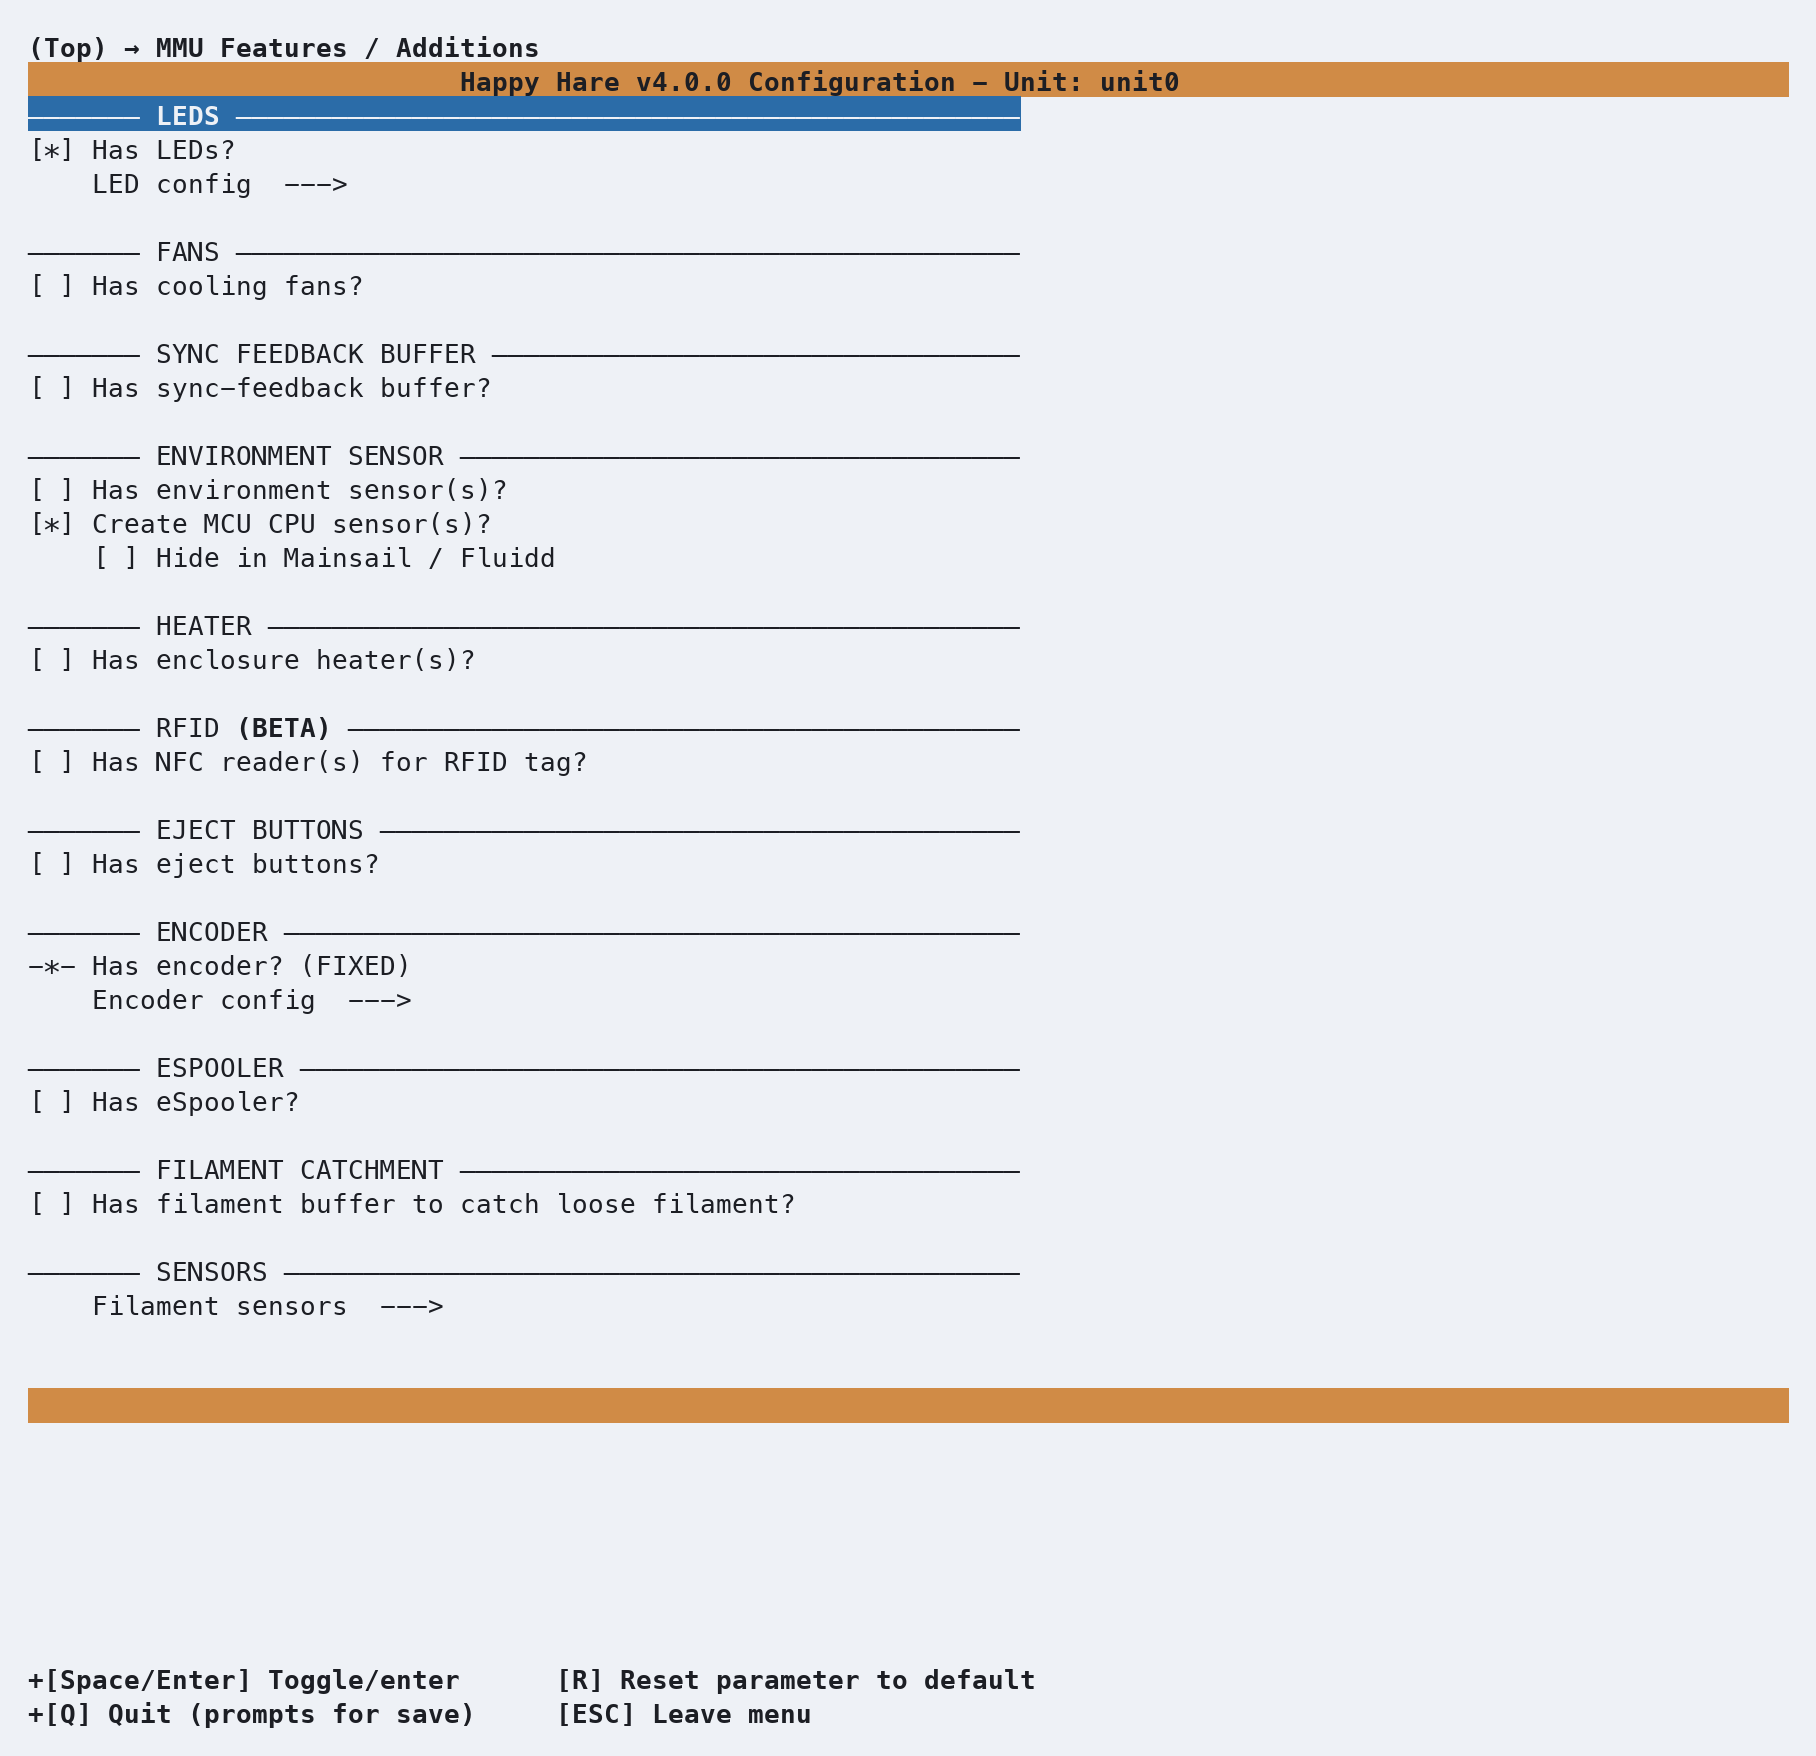
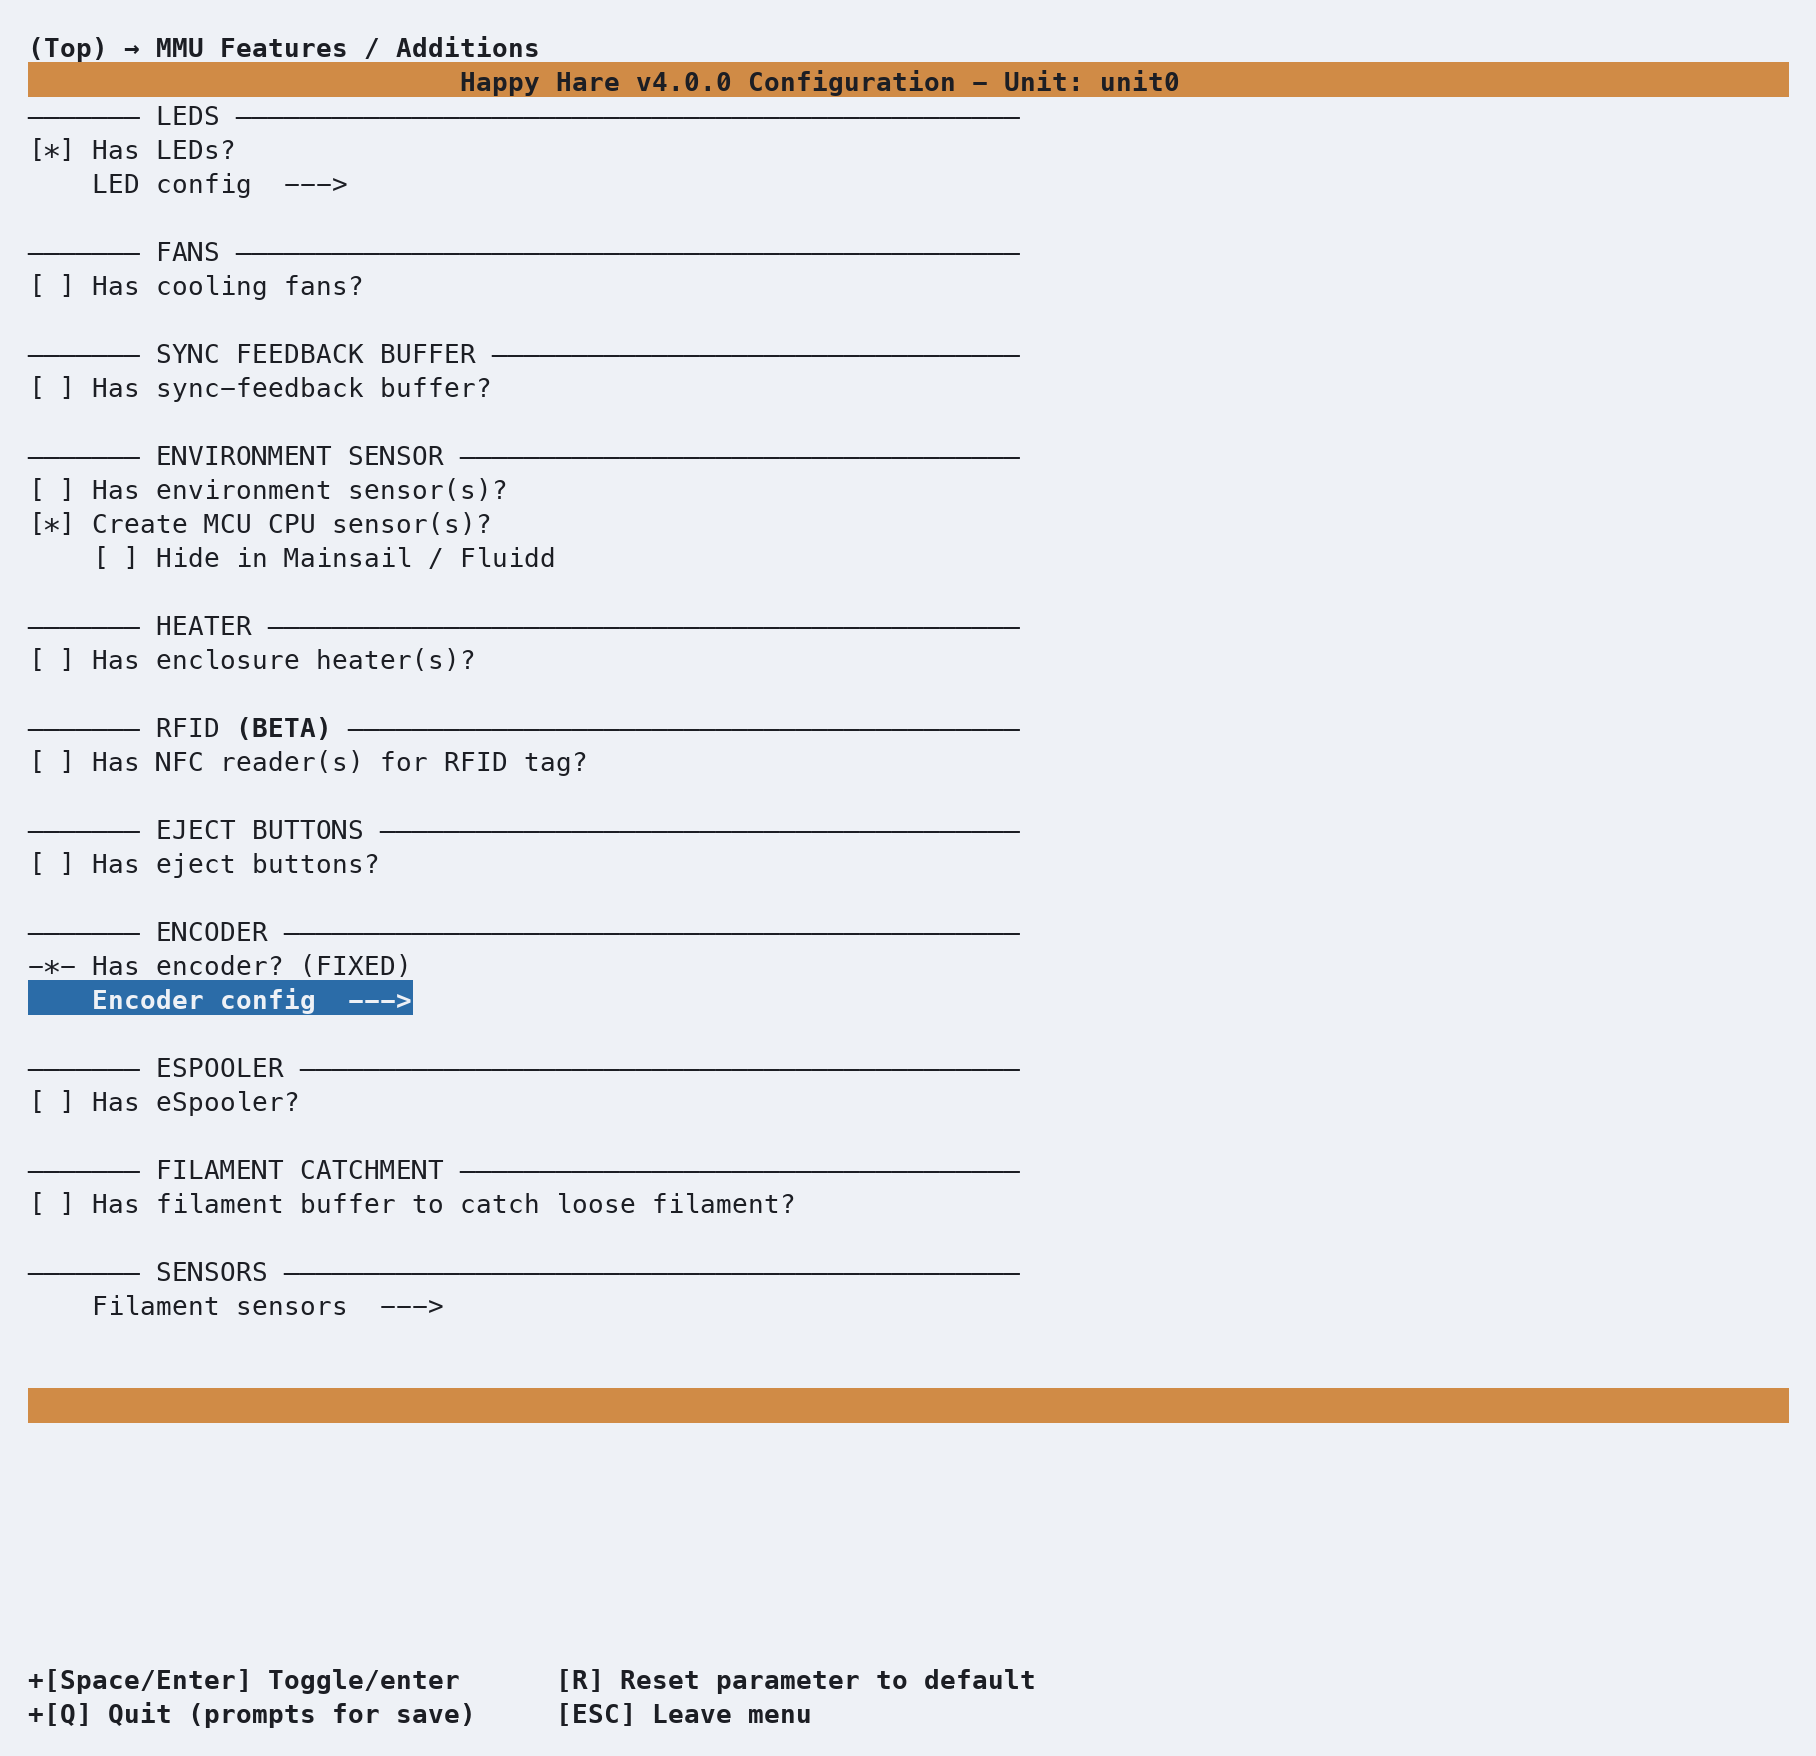
Refacto and include ERCF encoder section

Changed region(s): [[0.0, 0.0308, 0.5551, 0.0923], [0.0, 0.5535, 0.2467, 0.5843]]

diff --git a/doc/GettingStarted-ERCF.md b/doc/GettingStarted-ERCF.md
@@ -170,11 +170,40 @@ add a `!` in front of the pin name — Klipper's standard way of inverting a pin
 **Repeat** this for the **`selector stepper`**.
 
 ### Encoder
-ERCF uses an encoder for filament loading, and ... **[WIP]**
+++esc++ and back out to the top menu and open **`MMU Features / Additions`**, then **`Encoder config`**.
+ERCF requires an encoder to operate (enabled by default) for filament loading and unloading which can also
+be used for clog detection by the Happy Hare Flowguard facility and automatically calibrating bowden 
+lengths and **`Rotation Distances`**. Different ERCF encoder hardware and encoder resolutions are
+supported depending on your build.
+
+Optional ERCF features also can be enabled or disabled here - entry sensors, LED's, 
+and popular community contributed extensions like Sync-feedback buffers (sensors) such as 
+Annex Belay or more recent analog Proportional Sync Feedback sensors, etc.
+  
+<p align="center">
+  <img src="GettingStarted-ERCF/12-mmu-features.png" alt="MMU Features" width="70%">
+</p>
+<br>
+
+By default, a **`Binky 12-vane Encoder`** is selected. If you have a different encoder configuration open **`Type`**
+to change options. Encoder accuracy is dependent on this configuration and the type and number of vanes the installed
+encoder wheel has.
+<p align="center">
+  <img src="GettingStarted-ERCF/12-mmu-encoder.png" alt="Encoder settings" width="70%">
+</p>
+<br>
+
+Select the appropriate type that matches your configuration. `12` (Default) & `8-vane` Binky based encoders are
+the most common. However as the the original reason for reverting to fewer vanes (`8` or `10`) for direct-drive
+configurations no longer applies, it's recommended to swap back to **`12-vanes`** for better fidelity and 
+performance.
+
+The TCRT 5000 based encoders are only applicable to original ERCF v1.x builds.
 
 <p align="center">
-  <img src="GettingStarted-ERCF/11-Endstops.png" alt="Endstops" width="70%">
+  <img src="GettingStarted-ERCF/12-mmu-encoder-settings.png" alt="Encoder settings" width="70%">
 </p>
+<br>
 
 ### Picking a toolhead
 From the top menu, select **Toolhead**. This step is optional — if you skip it, Happy Hare falls back to generic
@@ -204,17 +233,6 @@ This is a shortcut, not a substitute: even with community-sourced toolhead measu
 measure and calibrate your own eventually, since small build variations and mods add up. But it's a genuinely good 
 starting point. If your exact combo isn't listed, select **`Other/Unknown`** and follow the manual calibration
 [`MMU_CALIBRATE_TOOLHEAD`](Calibration-Toolhead.md) process.
-
-### MMU Features / Additions
-Optional ERCF features can be enabled or disabled based on your ERCF build here. Popular community contributed 
-extensions like Sync-feedback buffers (sensors) such as Annex Belay or more recent analog Proportional Sync 
-Feedback sensors, Encoder, etc. can be enabled here.
-
-Note the Encoder is mandatory and is enabled by default as it's required for the ERCF to function correctly.
-
-<p align="center">
-  <img src="GettingStarted-ERCF/12-mmu-features.png" alt="MMU features" width="70%">
-</p>
 
 ## Validating Hardware setup & initial calibration
 The [Hardware Validation](Hardware-Validation.md) checklist covers the MCU, selector variants, encoder and the movement/homing
